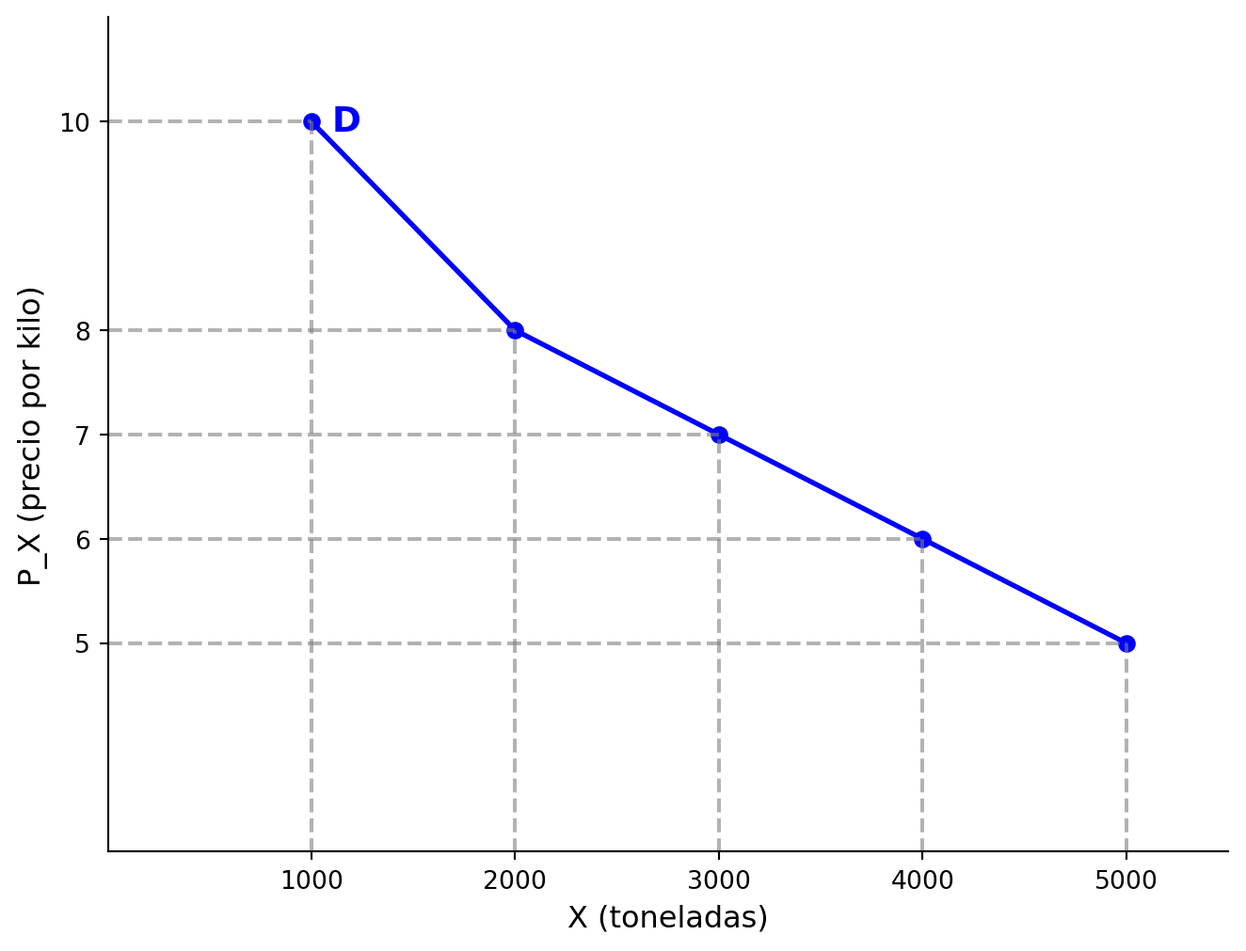
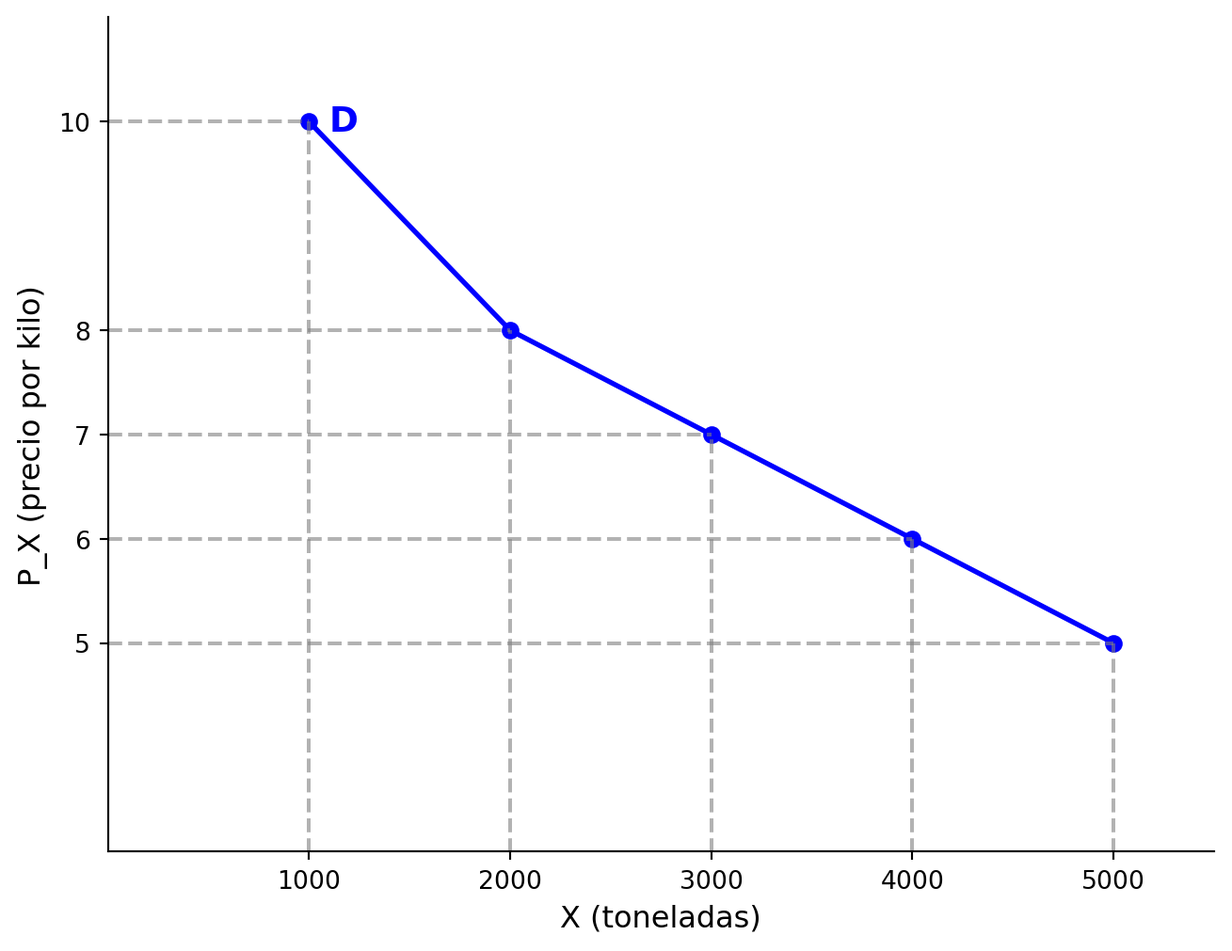
Built site for gh-pages

diff --git a/intro.html b/intro.html
@@ -651,9 +651,9 @@ Figura&nbsp;1.1: Representación gráfica de la Frontera de Posibilidades de Pro
 <div id="fig-fpp-dinamica" class="cell-output cell-output-display quarto-float quarto-figure quarto-figure-center anchored">
 <figure class="quarto-float quarto-float-fig figure">
 <div aria-describedby="fig-fpp-dinamica-caption-0ceaefa1-69ba-4598-a22c-09a6ac19f8ca">
-<div>                            <div id="f95fe3ef-958d-4b28-8f9b-2cfaf6280a66" class="plotly-graph-div" style="height:525px; width:100%;"></div>            <script type="text/javascript">                require(["plotly"], function(Plotly) {                    window.PLOTLYENV=window.PLOTLYENV || {};                                    if (document.getElementById("f95fe3ef-958d-4b28-8f9b-2cfaf6280a66")) {                    Plotly.newPlot(                        "f95fe3ef-958d-4b28-8f9b-2cfaf6280a66",                        [{"line":{"color":"#385e9d","shape":"spline","width":4},"mode":"lines+markers","name":"FPP Actual","x":[0,10,18,24,28,30],"y":[150,140,120,90,50,0],"type":"scatter"},{"line":{"color":"gray","dash":"dash","shape":"spline","width":2},"mode":"lines","name":"FPP Anterior","visible":false,"x":[0,10,18,24,28,30],"y":[150,140,120,90,50,0],"type":"scatter"},{"line":{"color":"#2ca02c","shape":"spline","width":4},"mode":"lines+markers","name":"Nueva FPP","visible":false,"x":[0.0,12.5,22.5,30.0,35.0,37.5],"y":[187.5,175.0,150.0,112.5,62.5,0.0],"type":"scatter"},{"line":{"color":"#d22020","shape":"spline","width":4},"mode":"lines+markers","name":"Nueva FPP","visible":false,"x":[0.0,7.5,13.5,18.0,21.0,22.5],"y":[112.5,105.0,90.0,67.5,37.5,0.0],"type":"scatter"},{"line":{"color":"#ff7f0e","shape":"spline","width":4},"mode":"lines+markers","name":"Nueva FPP","visible":false,"x":[0,15.0,27.0,36.0,42.0,45.0],"y":[150,140,120,90,50,0],"type":"scatter"},{"line":{"color":"#9467bd","shape":"spline","width":4},"mode":"lines+markers","name":"Nueva FPP","visible":false,"x":[0.0,11.5,20.7,27.599999999999998,32.199999999999996,34.5],"y":[172.5,161.0,138.0,103.49999999999999,57.49999999999999,0.0],"type":"scatter"},{"marker":{"color":"#d22020","size":14},"mode":"markers+text","name":"Ineficiente","text":["Recursos<br>Ociosos"],"textposition":"bottom center","visible":false,"x":[10],"y":[50],"type":"scatter"},{"marker":{"color":"#2ca02c","size":14},"mode":"markers+text","name":"Eficiente","text":["Uso<br>Eficiente"],"textposition":"top right","visible":false,"x":[24],"y":[90],"type":"scatter"}],                        {"template":{"data":{"barpolar":[{"marker":{"line":{"color":"white","width":0.5},"pattern":{"fillmode":"overlay","size":10,"solidity":0.2}},"type":"barpolar"}],"bar":[{"error_x":{"color":"#2a3f5f"},"error_y":{"color":"#2a3f5f"},"marker":{"line":{"color":"white","width":0.5},"pattern":{"fillmode":"overlay","size":10,"solidity":0.2}},"type":"bar"}],"carpet":[{"aaxis":{"endlinecolor":"#2a3f5f","gridcolor":"#C8D4E3","linecolor":"#C8D4E3","minorgridcolor":"#C8D4E3","startlinecolor":"#2a3f5f"},"baxis":{"endlinecolor":"#2a3f5f","gridcolor":"#C8D4E3","linecolor":"#C8D4E3","minorgridcolor":"#C8D4E3","startlinecolor":"#2a3f5f"},"type":"carpet"}],"choropleth":[{"colorbar":{"outlinewidth":0,"ticks":""},"type":"choropleth"}],"contourcarpet":[{"colorbar":{"outlinewidth":0,"ticks":""},"type":"contourcarpet"}],"contour":[{"colorbar":{"outlinewidth":0,"ticks":""},"colorscale":[[0.0,"#0d0887"],[0.1111111111111111,"#46039f"],[0.2222222222222222,"#7201a8"],[0.3333333333333333,"#9c179e"],[0.4444444444444444,"#bd3786"],[0.5555555555555556,"#d8576b"],[0.6666666666666666,"#ed7953"],[0.7777777777777778,"#fb9f3a"],[0.8888888888888888,"#fdca26"],[1.0,"#f0f921"]],"type":"contour"}],"heatmapgl":[{"colorbar":{"outlinewidth":0,"ticks":""},"colorscale":[[0.0,"#0d0887"],[0.1111111111111111,"#46039f"],[0.2222222222222222,"#7201a8"],[0.3333333333333333,"#9c179e"],[0.4444444444444444,"#bd3786"],[0.5555555555555556,"#d8576b"],[0.6666666666666666,"#ed7953"],[0.7777777777777778,"#fb9f3a"],[0.8888888888888888,"#fdca26"],[1.0,"#f0f921"]],"type":"heatmapgl"}],"heatmap":[{"colorbar":{"outlinewidth":0,"ticks":""},"colorscale":[[0.0,"#0d0887"],[0.1111111111111111,"#46039f"],[0.2222222222222222,"#7201a8"],[0.3333333333333333,"#9c179e"],[0.4444444444444444,"#bd3786"],[0.5555555555555556,"#d8576b"],[0.6666666666666666,"#ed7953"],[0.7777777777777778,"#fb9f3a"],[0.8888888888888888,"#fdca26"],[1.0,"#f0f921"]],"type":"heatmap"}],"histogram2dcontour":[{"colorbar":{"outlinewidth":0,"ticks":""},"colorscale":[[0.0,"#0d0887"],[0.1111111111111111,"#46039f"],[0.2222222222222222,"#7201a8"],[0.3333333333333333,"#9c179e"],[0.4444444444444444,"#bd3786"],[0.5555555555555556,"#d8576b"],[0.6666666666666666,"#ed7953"],[0.7777777777777778,"#fb9f3a"],[0.8888888888888888,"#fdca26"],[1.0,"#f0f921"]],"type":"histogram2dcontour"}],"histogram2d":[{"colorbar":{"outlinewidth":0,"ticks":""},"colorscale":[[0.0,"#0d0887"],[0.1111111111111111,"#46039f"],[0.2222222222222222,"#7201a8"],[0.3333333333333333,"#9c179e"],[0.4444444444444444,"#bd3786"],[0.5555555555555556,"#d8576b"],[0.6666666666666666,"#ed7953"],[0.7777777777777778,"#fb9f3a"],[0.8888888888888888,"#fdca26"],[1.0,"#f0f921"]],"type":"histogram2d"}],"histogram":[{"marker":{"pattern":{"fillmode":"overlay","size":10,"solidity":0.2}},"type":"histogram"}],"mesh3d":[{"colorbar":{"outlinewidth":0,"ticks":""},"type":"mesh3d"}],"parcoords":[{"line":{"colorbar":{"outlinewidth":0,"ticks":""}},"type":"parcoords"}],"pie":[{"automargin":true,"type":"pie"}],"scatter3d":[{"line":{"colorbar":{"outlinewidth":0,"ticks":""}},"marker":{"colorbar":{"outlinewidth":0,"ticks":""}},"type":"scatter3d"}],"scattercarpet":[{"marker":{"colorbar":{"outlinewidth":0,"ticks":""}},"type":"scattercarpet"}],"scattergeo":[{"marker":{"colorbar":{"outlinewidth":0,"ticks":""}},"type":"scattergeo"}],"scattergl":[{"marker":{"colorbar":{"outlinewidth":0,"ticks":""}},"type":"scattergl"}],"scattermapbox":[{"marker":{"colorbar":{"outlinewidth":0,"ticks":""}},"type":"scattermapbox"}],"scatterpolargl":[{"marker":{"colorbar":{"outlinewidth":0,"ticks":""}},"type":"scatterpolargl"}],"scatterpolar":[{"marker":{"colorbar":{"outlinewidth":0,"ticks":""}},"type":"scatterpolar"}],"scatter":[{"fillpattern":{"fillmode":"overlay","size":10,"solidity":0.2},"type":"scatter"}],"scatterternary":[{"marker":{"colorbar":{"outlinewidth":0,"ticks":""}},"type":"scatterternary"}],"surface":[{"colorbar":{"outlinewidth":0,"ticks":""},"colorscale":[[0.0,"#0d0887"],[0.1111111111111111,"#46039f"],[0.2222222222222222,"#7201a8"],[0.3333333333333333,"#9c179e"],[0.4444444444444444,"#bd3786"],[0.5555555555555556,"#d8576b"],[0.6666666666666666,"#ed7953"],[0.7777777777777778,"#fb9f3a"],[0.8888888888888888,"#fdca26"],[1.0,"#f0f921"]],"type":"surface"}],"table":[{"cells":{"fill":{"color":"#EBF0F8"},"line":{"color":"white"}},"header":{"fill":{"color":"#C8D4E3"},"line":{"color":"white"}},"type":"table"}]},"layout":{"annotationdefaults":{"arrowcolor":"#2a3f5f","arrowhead":0,"arrowwidth":1},"autotypenumbers":"strict","coloraxis":{"colorbar":{"outlinewidth":0,"ticks":""}},"colorscale":{"diverging":[[0,"#8e0152"],[0.1,"#c51b7d"],[0.2,"#de77ae"],[0.3,"#f1b6da"],[0.4,"#fde0ef"],[0.5,"#f7f7f7"],[0.6,"#e6f5d0"],[0.7,"#b8e186"],[0.8,"#7fbc41"],[0.9,"#4d9221"],[1,"#276419"]],"sequential":[[0.0,"#0d0887"],[0.1111111111111111,"#46039f"],[0.2222222222222222,"#7201a8"],[0.3333333333333333,"#9c179e"],[0.4444444444444444,"#bd3786"],[0.5555555555555556,"#d8576b"],[0.6666666666666666,"#ed7953"],[0.7777777777777778,"#fb9f3a"],[0.8888888888888888,"#fdca26"],[1.0,"#f0f921"]],"sequentialminus":[[0.0,"#0d0887"],[0.1111111111111111,"#46039f"],[0.2222222222222222,"#7201a8"],[0.3333333333333333,"#9c179e"],[0.4444444444444444,"#bd3786"],[0.5555555555555556,"#d8576b"],[0.6666666666666666,"#ed7953"],[0.7777777777777778,"#fb9f3a"],[0.8888888888888888,"#fdca26"],[1.0,"#f0f921"]]},"colorway":["#636efa","#EF553B","#00cc96","#ab63fa","#FFA15A","#19d3f3","#FF6692","#B6E880","#FF97FF","#FECB52"],"font":{"color":"#2a3f5f"},"geo":{"bgcolor":"white","lakecolor":"white","landcolor":"white","showlakes":true,"showland":true,"subunitcolor":"#C8D4E3"},"hoverlabel":{"align":"left"},"hovermode":"closest","mapbox":{"style":"light"},"margin":{"b":0,"l":0,"r":0,"t":30},"paper_bgcolor":"white","plot_bgcolor":"white","polar":{"angularaxis":{"gridcolor":"#EBF0F8","linecolor":"#EBF0F8","ticks":""},"bgcolor":"white","radialaxis":{"gridcolor":"#EBF0F8","linecolor":"#EBF0F8","ticks":""}},"scene":{"xaxis":{"backgroundcolor":"white","gridcolor":"#DFE8F3","gridwidth":2,"linecolor":"#EBF0F8","showbackground":true,"ticks":"","zerolinecolor":"#EBF0F8"},"yaxis":{"backgroundcolor":"white","gridcolor":"#DFE8F3","gridwidth":2,"linecolor":"#EBF0F8","showbackground":true,"ticks":"","zerolinecolor":"#EBF0F8"},"zaxis":{"backgroundcolor":"white","gridcolor":"#DFE8F3","gridwidth":2,"linecolor":"#EBF0F8","showbackground":true,"ticks":"","zerolinecolor":"#EBF0F8"}},"shapedefaults":{"line":{"color":"#2a3f5f"}},"ternary":{"aaxis":{"gridcolor":"#DFE8F3","linecolor":"#A2B1C6","ticks":""},"baxis":{"gridcolor":"#DFE8F3","linecolor":"#A2B1C6","ticks":""},"bgcolor":"white","caxis":{"gridcolor":"#DFE8F3","linecolor":"#A2B1C6","ticks":""}},"title":{"x":0.05},"xaxis":{"automargin":true,"gridcolor":"#EBF0F8","linecolor":"#EBF0F8","ticks":"","title":{"standoff":15},"zerolinecolor":"#EBF0F8","zerolinewidth":2},"yaxis":{"automargin":true,"gridcolor":"#EBF0F8","linecolor":"#EBF0F8","ticks":"","title":{"standoff":15},"zerolinecolor":"#EBF0F8","zerolinewidth":2}}},"xaxis":{"title":{"text":"<b>Vestidos</b>"},"range":[0,50],"zeroline":true,"zerolinecolor":"black","zerolinewidth":1.5,"gridcolor":"lightgray"},"yaxis":{"title":{"text":"<b>Alimentos</b>"},"range":[0,200],"zeroline":true,"zerolinecolor":"black","zerolinewidth":1.5,"gridcolor":"lightgray"},"margin":{"l":50,"r":30,"t":40,"b":50},"legend":{"x":0.98,"xanchor":"right","y":0.85,"yanchor":"top","bgcolor":"rgba(255, 255, 255, 0.9)","bordercolor":"lightgray","borderwidth":1},"updatemenus":[{"active":0,"bgcolor":"rgba(255, 255, 255, 0.9)","bordercolor":"lightgray","borderwidth":1,"buttons":[{"args":[{"visible":[true,false,false,false,false,false,false,false]},{"annotations":[{"x":0.03,"y":0.97,"xref":"paper","yref":"paper","text":"<b>Situaci\u00f3n Inicial</b><br><br>La FPP representa el potencial productivo m\u00e1ximo.<br>La econom\u00eda es eficiente sobre la curva.","showarrow":false,"align":"left","font":{"size":13},"bgcolor":"rgba(255, 255, 255, 0.95)","bordercolor":"#385e9d","borderwidth":2,"borderpad":10}]}],"label":"0. Situaci\u00f3n Inicial","method":"update"},{"args":[{"visible":[false,true,true,false,false,false,false,false]},{"annotations":[{"x":0.03,"y":0.97,"xref":"paper","yref":"paper","text":"<b>Aumento de Recursos</b><br><br><b>Desplazamiento:</b> Hacia el exterior (derecha).<br><b>Efecto:</b> Crece la capacidad de producci\u00f3n<br>de ambos bienes en simult\u00e1neo.","showarrow":false,"align":"left","font":{"size":13},"bgcolor":"rgba(255, 255, 255, 0.95)","bordercolor":"#385e9d","borderwidth":2,"borderpad":10}]}],"label":"1. Aumento de recursos","method":"update"},{"args":[{"visible":[false,true,false,true,false,false,false,false]},{"annotations":[{"x":0.03,"y":0.97,"xref":"paper","yref":"paper","text":"<b>Disminuci\u00f3n de Recursos</b><br><br><b>Desplazamiento:</b> Hacia el origen (izquierda).<br><b>Efecto:</b> Se reduce el potencial productivo<br>global de la econom\u00eda.","showarrow":false,"align":"left","font":{"size":13},"bgcolor":"rgba(255, 255, 255, 0.95)","bordercolor":"#385e9d","borderwidth":2,"borderpad":10}]}],"label":"2. Disminuci\u00f3n de recursos","method":"update"},{"args":[{"visible":[false,true,false,false,true,false,false,false]},{"annotations":[{"x":0.03,"y":0.97,"xref":"paper","yref":"paper","text":"<b>Mejora Tecnol\u00f3gica en un bien</b><br><br><b>Desplazamiento:</b> Hacia el exterior por el lado del bien.<br><b>Efecto:</b> La frontera se estira \u00fanicamente sobre el eje<br>de los Vestidos (eje X).","showarrow":false,"align":"left","font":{"size":13},"bgcolor":"rgba(255, 255, 255, 0.95)","bordercolor":"#385e9d","borderwidth":2,"borderpad":10}]}],"label":"3. Mejora tec. (Solo Vestidos)","method":"update"},{"args":[{"visible":[false,true,false,false,false,true,false,false]},{"annotations":[{"x":0.03,"y":0.97,"xref":"paper","yref":"paper","text":"<b>Mejora Tecnol\u00f3gica en todos los bienes</b><br><br><b>Desplazamiento:</b> Hacia el exterior (derecha).<br><b>Efecto:</b> Representa un crecimiento econ\u00f3mico generalizado<br>por innovaci\u00f3n tecnol\u00f3gica.","showarrow":false,"align":"left","font":{"size":13},"bgcolor":"rgba(255, 255, 255, 0.95)","bordercolor":"#385e9d","borderwidth":2,"borderpad":10}]}],"label":"4. Mejora tec. General","method":"update"},{"args":[{"visible":[true,false,false,false,false,false,true,true]},{"annotations":[{"x":0.03,"y":0.97,"xref":"paper","yref":"paper","text":"<b>Sociedad utiliza recursos ociosos</b><br><br><b>Desplazamiento:</b> No hay desplazamiento de la FPP.<br><b>Efecto:</b> La econom\u00eda se mueve desde una combinaci\u00f3n<br>ineficiente (interior) hacia la frontera.","showarrow":false,"align":"left","font":{"size":13},"bgcolor":"rgba(255, 255, 255, 0.95)","bordercolor":"#385e9d","borderwidth":2,"borderpad":10},{"x":23,"y":85,"ax":12,"ay":55,"xref":"x","yref":"y","axref":"x","ayref":"y","text":"La econom\u00eda se optimiza","showarrow":true,"arrowhead":2,"arrowsize":1.5,"arrowwidth":2,"arrowcolor":"#385e9d"}]}],"label":"5. Uso de recursos ociosos","method":"update"}],"x":0.98,"xanchor":"right","y":0.98,"yanchor":"top"}],"hovermode":"x unified"},                        {"responsive": true}                    ).then(function(){
+<div>                            <div id="aa0306e6-b045-472a-a069-06e269f838a5" class="plotly-graph-div" style="height:525px; width:100%;"></div>            <script type="text/javascript">                require(["plotly"], function(Plotly) {                    window.PLOTLYENV=window.PLOTLYENV || {};                                    if (document.getElementById("aa0306e6-b045-472a-a069-06e269f838a5")) {                    Plotly.newPlot(                        "aa0306e6-b045-472a-a069-06e269f838a5",                        [{"line":{"color":"#385e9d","shape":"spline","width":4},"mode":"lines+markers","name":"FPP Actual","x":[0,10,18,24,28,30],"y":[150,140,120,90,50,0],"type":"scatter"},{"line":{"color":"gray","dash":"dash","shape":"spline","width":2},"mode":"lines","name":"FPP Anterior","visible":false,"x":[0,10,18,24,28,30],"y":[150,140,120,90,50,0],"type":"scatter"},{"line":{"color":"#2ca02c","shape":"spline","width":4},"mode":"lines+markers","name":"Nueva FPP","visible":false,"x":[0.0,12.5,22.5,30.0,35.0,37.5],"y":[187.5,175.0,150.0,112.5,62.5,0.0],"type":"scatter"},{"line":{"color":"#d22020","shape":"spline","width":4},"mode":"lines+markers","name":"Nueva FPP","visible":false,"x":[0.0,7.5,13.5,18.0,21.0,22.5],"y":[112.5,105.0,90.0,67.5,37.5,0.0],"type":"scatter"},{"line":{"color":"#ff7f0e","shape":"spline","width":4},"mode":"lines+markers","name":"Nueva FPP","visible":false,"x":[0,15.0,27.0,36.0,42.0,45.0],"y":[150,140,120,90,50,0],"type":"scatter"},{"line":{"color":"#9467bd","shape":"spline","width":4},"mode":"lines+markers","name":"Nueva FPP","visible":false,"x":[0.0,11.5,20.7,27.599999999999998,32.199999999999996,34.5],"y":[172.5,161.0,138.0,103.49999999999999,57.49999999999999,0.0],"type":"scatter"},{"marker":{"color":"#d22020","size":14},"mode":"markers+text","name":"Ineficiente","text":["Recursos<br>Ociosos"],"textposition":"bottom center","visible":false,"x":[10],"y":[50],"type":"scatter"},{"marker":{"color":"#2ca02c","size":14},"mode":"markers+text","name":"Eficiente","text":["Uso<br>Eficiente"],"textposition":"top right","visible":false,"x":[24],"y":[90],"type":"scatter"}],                        {"template":{"data":{"barpolar":[{"marker":{"line":{"color":"white","width":0.5},"pattern":{"fillmode":"overlay","size":10,"solidity":0.2}},"type":"barpolar"}],"bar":[{"error_x":{"color":"#2a3f5f"},"error_y":{"color":"#2a3f5f"},"marker":{"line":{"color":"white","width":0.5},"pattern":{"fillmode":"overlay","size":10,"solidity":0.2}},"type":"bar"}],"carpet":[{"aaxis":{"endlinecolor":"#2a3f5f","gridcolor":"#C8D4E3","linecolor":"#C8D4E3","minorgridcolor":"#C8D4E3","startlinecolor":"#2a3f5f"},"baxis":{"endlinecolor":"#2a3f5f","gridcolor":"#C8D4E3","linecolor":"#C8D4E3","minorgridcolor":"#C8D4E3","startlinecolor":"#2a3f5f"},"type":"carpet"}],"choropleth":[{"colorbar":{"outlinewidth":0,"ticks":""},"type":"choropleth"}],"contourcarpet":[{"colorbar":{"outlinewidth":0,"ticks":""},"type":"contourcarpet"}],"contour":[{"colorbar":{"outlinewidth":0,"ticks":""},"colorscale":[[0.0,"#0d0887"],[0.1111111111111111,"#46039f"],[0.2222222222222222,"#7201a8"],[0.3333333333333333,"#9c179e"],[0.4444444444444444,"#bd3786"],[0.5555555555555556,"#d8576b"],[0.6666666666666666,"#ed7953"],[0.7777777777777778,"#fb9f3a"],[0.8888888888888888,"#fdca26"],[1.0,"#f0f921"]],"type":"contour"}],"heatmapgl":[{"colorbar":{"outlinewidth":0,"ticks":""},"colorscale":[[0.0,"#0d0887"],[0.1111111111111111,"#46039f"],[0.2222222222222222,"#7201a8"],[0.3333333333333333,"#9c179e"],[0.4444444444444444,"#bd3786"],[0.5555555555555556,"#d8576b"],[0.6666666666666666,"#ed7953"],[0.7777777777777778,"#fb9f3a"],[0.8888888888888888,"#fdca26"],[1.0,"#f0f921"]],"type":"heatmapgl"}],"heatmap":[{"colorbar":{"outlinewidth":0,"ticks":""},"colorscale":[[0.0,"#0d0887"],[0.1111111111111111,"#46039f"],[0.2222222222222222,"#7201a8"],[0.3333333333333333,"#9c179e"],[0.4444444444444444,"#bd3786"],[0.5555555555555556,"#d8576b"],[0.6666666666666666,"#ed7953"],[0.7777777777777778,"#fb9f3a"],[0.8888888888888888,"#fdca26"],[1.0,"#f0f921"]],"type":"heatmap"}],"histogram2dcontour":[{"colorbar":{"outlinewidth":0,"ticks":""},"colorscale":[[0.0,"#0d0887"],[0.1111111111111111,"#46039f"],[0.2222222222222222,"#7201a8"],[0.3333333333333333,"#9c179e"],[0.4444444444444444,"#bd3786"],[0.5555555555555556,"#d8576b"],[0.6666666666666666,"#ed7953"],[0.7777777777777778,"#fb9f3a"],[0.8888888888888888,"#fdca26"],[1.0,"#f0f921"]],"type":"histogram2dcontour"}],"histogram2d":[{"colorbar":{"outlinewidth":0,"ticks":""},"colorscale":[[0.0,"#0d0887"],[0.1111111111111111,"#46039f"],[0.2222222222222222,"#7201a8"],[0.3333333333333333,"#9c179e"],[0.4444444444444444,"#bd3786"],[0.5555555555555556,"#d8576b"],[0.6666666666666666,"#ed7953"],[0.7777777777777778,"#fb9f3a"],[0.8888888888888888,"#fdca26"],[1.0,"#f0f921"]],"type":"histogram2d"}],"histogram":[{"marker":{"pattern":{"fillmode":"overlay","size":10,"solidity":0.2}},"type":"histogram"}],"mesh3d":[{"colorbar":{"outlinewidth":0,"ticks":""},"type":"mesh3d"}],"parcoords":[{"line":{"colorbar":{"outlinewidth":0,"ticks":""}},"type":"parcoords"}],"pie":[{"automargin":true,"type":"pie"}],"scatter3d":[{"line":{"colorbar":{"outlinewidth":0,"ticks":""}},"marker":{"colorbar":{"outlinewidth":0,"ticks":""}},"type":"scatter3d"}],"scattercarpet":[{"marker":{"colorbar":{"outlinewidth":0,"ticks":""}},"type":"scattercarpet"}],"scattergeo":[{"marker":{"colorbar":{"outlinewidth":0,"ticks":""}},"type":"scattergeo"}],"scattergl":[{"marker":{"colorbar":{"outlinewidth":0,"ticks":""}},"type":"scattergl"}],"scattermapbox":[{"marker":{"colorbar":{"outlinewidth":0,"ticks":""}},"type":"scattermapbox"}],"scatterpolargl":[{"marker":{"colorbar":{"outlinewidth":0,"ticks":""}},"type":"scatterpolargl"}],"scatterpolar":[{"marker":{"colorbar":{"outlinewidth":0,"ticks":""}},"type":"scatterpolar"}],"scatter":[{"fillpattern":{"fillmode":"overlay","size":10,"solidity":0.2},"type":"scatter"}],"scatterternary":[{"marker":{"colorbar":{"outlinewidth":0,"ticks":""}},"type":"scatterternary"}],"surface":[{"colorbar":{"outlinewidth":0,"ticks":""},"colorscale":[[0.0,"#0d0887"],[0.1111111111111111,"#46039f"],[0.2222222222222222,"#7201a8"],[0.3333333333333333,"#9c179e"],[0.4444444444444444,"#bd3786"],[0.5555555555555556,"#d8576b"],[0.6666666666666666,"#ed7953"],[0.7777777777777778,"#fb9f3a"],[0.8888888888888888,"#fdca26"],[1.0,"#f0f921"]],"type":"surface"}],"table":[{"cells":{"fill":{"color":"#EBF0F8"},"line":{"color":"white"}},"header":{"fill":{"color":"#C8D4E3"},"line":{"color":"white"}},"type":"table"}]},"layout":{"annotationdefaults":{"arrowcolor":"#2a3f5f","arrowhead":0,"arrowwidth":1},"autotypenumbers":"strict","coloraxis":{"colorbar":{"outlinewidth":0,"ticks":""}},"colorscale":{"diverging":[[0,"#8e0152"],[0.1,"#c51b7d"],[0.2,"#de77ae"],[0.3,"#f1b6da"],[0.4,"#fde0ef"],[0.5,"#f7f7f7"],[0.6,"#e6f5d0"],[0.7,"#b8e186"],[0.8,"#7fbc41"],[0.9,"#4d9221"],[1,"#276419"]],"sequential":[[0.0,"#0d0887"],[0.1111111111111111,"#46039f"],[0.2222222222222222,"#7201a8"],[0.3333333333333333,"#9c179e"],[0.4444444444444444,"#bd3786"],[0.5555555555555556,"#d8576b"],[0.6666666666666666,"#ed7953"],[0.7777777777777778,"#fb9f3a"],[0.8888888888888888,"#fdca26"],[1.0,"#f0f921"]],"sequentialminus":[[0.0,"#0d0887"],[0.1111111111111111,"#46039f"],[0.2222222222222222,"#7201a8"],[0.3333333333333333,"#9c179e"],[0.4444444444444444,"#bd3786"],[0.5555555555555556,"#d8576b"],[0.6666666666666666,"#ed7953"],[0.7777777777777778,"#fb9f3a"],[0.8888888888888888,"#fdca26"],[1.0,"#f0f921"]]},"colorway":["#636efa","#EF553B","#00cc96","#ab63fa","#FFA15A","#19d3f3","#FF6692","#B6E880","#FF97FF","#FECB52"],"font":{"color":"#2a3f5f"},"geo":{"bgcolor":"white","lakecolor":"white","landcolor":"white","showlakes":true,"showland":true,"subunitcolor":"#C8D4E3"},"hoverlabel":{"align":"left"},"hovermode":"closest","mapbox":{"style":"light"},"margin":{"b":0,"l":0,"r":0,"t":30},"paper_bgcolor":"white","plot_bgcolor":"white","polar":{"angularaxis":{"gridcolor":"#EBF0F8","linecolor":"#EBF0F8","ticks":""},"bgcolor":"white","radialaxis":{"gridcolor":"#EBF0F8","linecolor":"#EBF0F8","ticks":""}},"scene":{"xaxis":{"backgroundcolor":"white","gridcolor":"#DFE8F3","gridwidth":2,"linecolor":"#EBF0F8","showbackground":true,"ticks":"","zerolinecolor":"#EBF0F8"},"yaxis":{"backgroundcolor":"white","gridcolor":"#DFE8F3","gridwidth":2,"linecolor":"#EBF0F8","showbackground":true,"ticks":"","zerolinecolor":"#EBF0F8"},"zaxis":{"backgroundcolor":"white","gridcolor":"#DFE8F3","gridwidth":2,"linecolor":"#EBF0F8","showbackground":true,"ticks":"","zerolinecolor":"#EBF0F8"}},"shapedefaults":{"line":{"color":"#2a3f5f"}},"ternary":{"aaxis":{"gridcolor":"#DFE8F3","linecolor":"#A2B1C6","ticks":""},"baxis":{"gridcolor":"#DFE8F3","linecolor":"#A2B1C6","ticks":""},"bgcolor":"white","caxis":{"gridcolor":"#DFE8F3","linecolor":"#A2B1C6","ticks":""}},"title":{"x":0.05},"xaxis":{"automargin":true,"gridcolor":"#EBF0F8","linecolor":"#EBF0F8","ticks":"","title":{"standoff":15},"zerolinecolor":"#EBF0F8","zerolinewidth":2},"yaxis":{"automargin":true,"gridcolor":"#EBF0F8","linecolor":"#EBF0F8","ticks":"","title":{"standoff":15},"zerolinecolor":"#EBF0F8","zerolinewidth":2}}},"xaxis":{"title":{"text":"<b>Vestidos</b>"},"range":[0,50],"zeroline":true,"zerolinecolor":"black","zerolinewidth":1.5,"gridcolor":"lightgray"},"yaxis":{"title":{"text":"<b>Alimentos</b>"},"range":[0,200],"zeroline":true,"zerolinecolor":"black","zerolinewidth":1.5,"gridcolor":"lightgray"},"margin":{"l":50,"r":30,"t":40,"b":50},"legend":{"x":0.98,"xanchor":"right","y":0.85,"yanchor":"top","bgcolor":"rgba(255, 255, 255, 0.9)","bordercolor":"lightgray","borderwidth":1},"updatemenus":[{"active":0,"bgcolor":"rgba(255, 255, 255, 0.9)","bordercolor":"lightgray","borderwidth":1,"buttons":[{"args":[{"visible":[true,false,false,false,false,false,false,false]},{"annotations":[{"x":0.03,"y":0.97,"xref":"paper","yref":"paper","text":"<b>Situaci\u00f3n Inicial</b><br><br>La FPP representa el potencial productivo m\u00e1ximo.<br>La econom\u00eda es eficiente sobre la curva.","showarrow":false,"align":"left","font":{"size":13},"bgcolor":"rgba(255, 255, 255, 0.95)","bordercolor":"#385e9d","borderwidth":2,"borderpad":10}]}],"label":"0. Situaci\u00f3n Inicial","method":"update"},{"args":[{"visible":[false,true,true,false,false,false,false,false]},{"annotations":[{"x":0.03,"y":0.97,"xref":"paper","yref":"paper","text":"<b>Aumento de Recursos</b><br><br><b>Desplazamiento:</b> Hacia el exterior (derecha).<br><b>Efecto:</b> Crece la capacidad de producci\u00f3n<br>de ambos bienes en simult\u00e1neo.","showarrow":false,"align":"left","font":{"size":13},"bgcolor":"rgba(255, 255, 255, 0.95)","bordercolor":"#385e9d","borderwidth":2,"borderpad":10}]}],"label":"1. Aumento de recursos","method":"update"},{"args":[{"visible":[false,true,false,true,false,false,false,false]},{"annotations":[{"x":0.03,"y":0.97,"xref":"paper","yref":"paper","text":"<b>Disminuci\u00f3n de Recursos</b><br><br><b>Desplazamiento:</b> Hacia el origen (izquierda).<br><b>Efecto:</b> Se reduce el potencial productivo<br>global de la econom\u00eda.","showarrow":false,"align":"left","font":{"size":13},"bgcolor":"rgba(255, 255, 255, 0.95)","bordercolor":"#385e9d","borderwidth":2,"borderpad":10}]}],"label":"2. Disminuci\u00f3n de recursos","method":"update"},{"args":[{"visible":[false,true,false,false,true,false,false,false]},{"annotations":[{"x":0.03,"y":0.97,"xref":"paper","yref":"paper","text":"<b>Mejora Tecnol\u00f3gica en un bien</b><br><br><b>Desplazamiento:</b> Hacia el exterior por el lado del bien.<br><b>Efecto:</b> La frontera se estira \u00fanicamente sobre el eje<br>de los Vestidos (eje X).","showarrow":false,"align":"left","font":{"size":13},"bgcolor":"rgba(255, 255, 255, 0.95)","bordercolor":"#385e9d","borderwidth":2,"borderpad":10}]}],"label":"3. Mejora tec. (Solo Vestidos)","method":"update"},{"args":[{"visible":[false,true,false,false,false,true,false,false]},{"annotations":[{"x":0.03,"y":0.97,"xref":"paper","yref":"paper","text":"<b>Mejora Tecnol\u00f3gica en todos los bienes</b><br><br><b>Desplazamiento:</b> Hacia el exterior (derecha).<br><b>Efecto:</b> Representa un crecimiento econ\u00f3mico generalizado<br>por innovaci\u00f3n tecnol\u00f3gica.","showarrow":false,"align":"left","font":{"size":13},"bgcolor":"rgba(255, 255, 255, 0.95)","bordercolor":"#385e9d","borderwidth":2,"borderpad":10}]}],"label":"4. Mejora tec. General","method":"update"},{"args":[{"visible":[true,false,false,false,false,false,true,true]},{"annotations":[{"x":0.03,"y":0.97,"xref":"paper","yref":"paper","text":"<b>Sociedad utiliza recursos ociosos</b><br><br><b>Desplazamiento:</b> No hay desplazamiento de la FPP.<br><b>Efecto:</b> La econom\u00eda se mueve desde una combinaci\u00f3n<br>ineficiente (interior) hacia la frontera.","showarrow":false,"align":"left","font":{"size":13},"bgcolor":"rgba(255, 255, 255, 0.95)","bordercolor":"#385e9d","borderwidth":2,"borderpad":10},{"x":23,"y":85,"ax":12,"ay":55,"xref":"x","yref":"y","axref":"x","ayref":"y","text":"La econom\u00eda se optimiza","showarrow":true,"arrowhead":2,"arrowsize":1.5,"arrowwidth":2,"arrowcolor":"#385e9d"}]}],"label":"5. Uso de recursos ociosos","method":"update"}],"x":0.98,"xanchor":"right","y":0.98,"yanchor":"top"}],"hovermode":"x unified"},                        {"responsive": true}                    ).then(function(){
                             
-var gd = document.getElementById('f95fe3ef-958d-4b28-8f9b-2cfaf6280a66');
+var gd = document.getElementById('aa0306e6-b045-472a-a069-06e269f838a5');
 var x = new MutationObserver(function (mutations, observer) {{
         var display = window.getComputedStyle(gd).display;
         if (!display || display === 'none') {{

diff --git a/produccion.html b/produccion.html
@@ -674,7 +674,7 @@ PMg_L = \frac{\Delta PT_L}{\Delta L}
 </div>
 </div>
 <div class="cell-output cell-output-display">
-<div id="fig-productividad-2" class="quarto-float quarto-figure quarto-figure-center anchored" height="356" width="596">
+<div id="fig-productividad-2" class="quarto-float quarto-figure quarto-figure-center anchored" width="596" height="356">
 <figure class="quarto-float quarto-subfloat-fig figure">
 <div aria-describedby="fig-productividad-2-caption-0ceaefa1-69ba-4598-a22c-09a6ac19f8ca">
 <img src="produccion_files/figure-html/fig-productividad-output-2.png" id="fig-productividad-2" data-ref-parent="fig-productividad" width="596" height="356" class="figure-img">
@@ -794,7 +794,7 @@ CMg = \frac{\text{Aumento del coste total o variable}}{\text{Aumento del n.º de
 </div>
 </div>
 <div class="cell-output cell-output-display">
-<div id="fig-costemg-costeme-2" class="quarto-float quarto-figure quarto-figure-center anchored" height="356" width="585">
+<div id="fig-costemg-costeme-2" class="quarto-float quarto-figure quarto-figure-center anchored" width="585" height="356">
 <figure class="quarto-float quarto-subfloat-fig figure">
 <div aria-describedby="fig-costemg-costeme-2-caption-0ceaefa1-69ba-4598-a22c-09a6ac19f8ca">
 <img src="produccion_files/figure-html/fig-costemg-costeme-output-2.png" id="fig-costemg-costeme-2" data-ref-parent="fig-costemg-costeme" width="585" height="356" class="figure-img">

diff --git a/mercado.html b/mercado.html
@@ -294,7 +294,7 @@ window.Quarto = {
 <div id="fig-curva-demanda" class="quarto-float quarto-figure quarto-figure-center anchored">
 <figure class="quarto-float quarto-float-fig figure">
 <div aria-describedby="fig-curva-demanda-caption-0ceaefa1-69ba-4598-a22c-09a6ac19f8ca">
-<img src="mercado_files/figure-html/fig-curva-demanda-output-1.png" width="662" height="506" class="figure-img">
+<img src="mercado_files/figure-html/fig-curva-demanda-output-1.png" width="655" height="506" class="figure-img">
 </div>
 <figcaption class="quarto-float-caption-bottom quarto-float-caption quarto-float-fig" id="fig-curva-demanda-caption-0ceaefa1-69ba-4598-a22c-09a6ac19f8ca">
 Figura&nbsp;2.1: Curva de demanda correspondiente a la tabla 2.2
